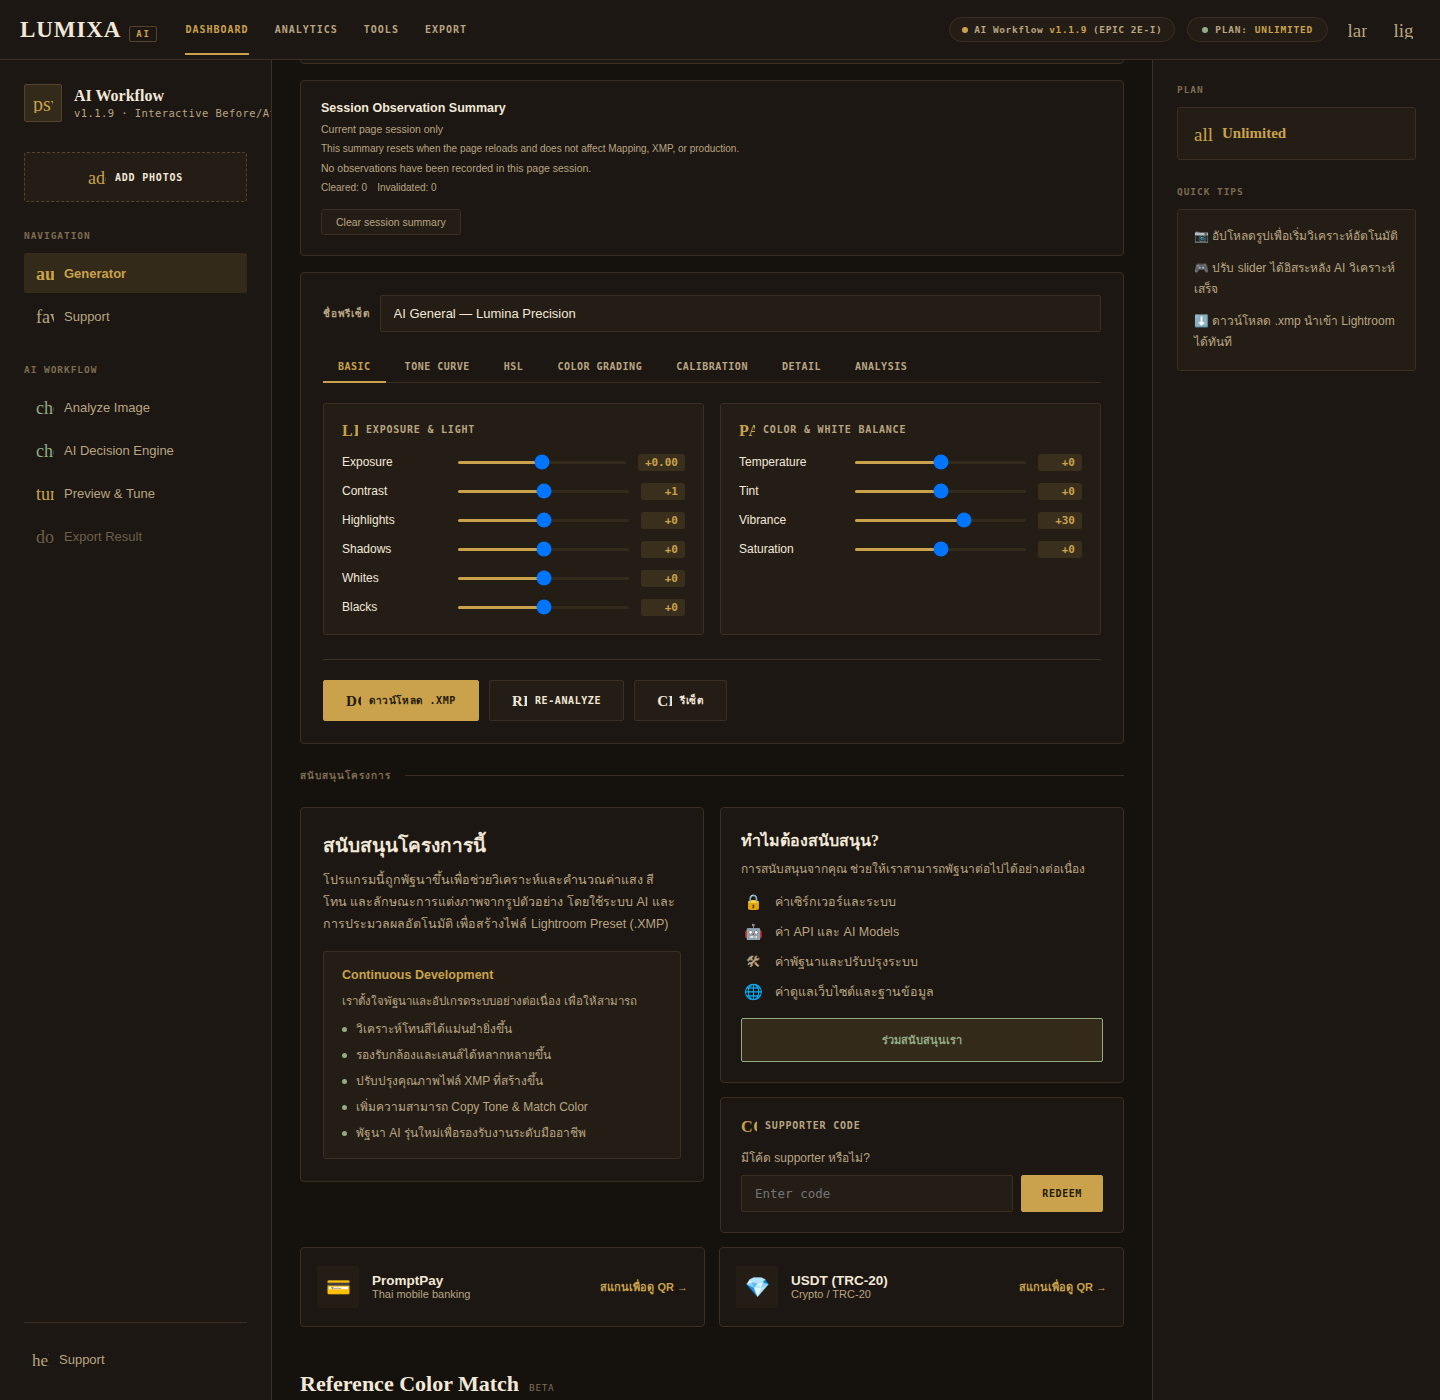
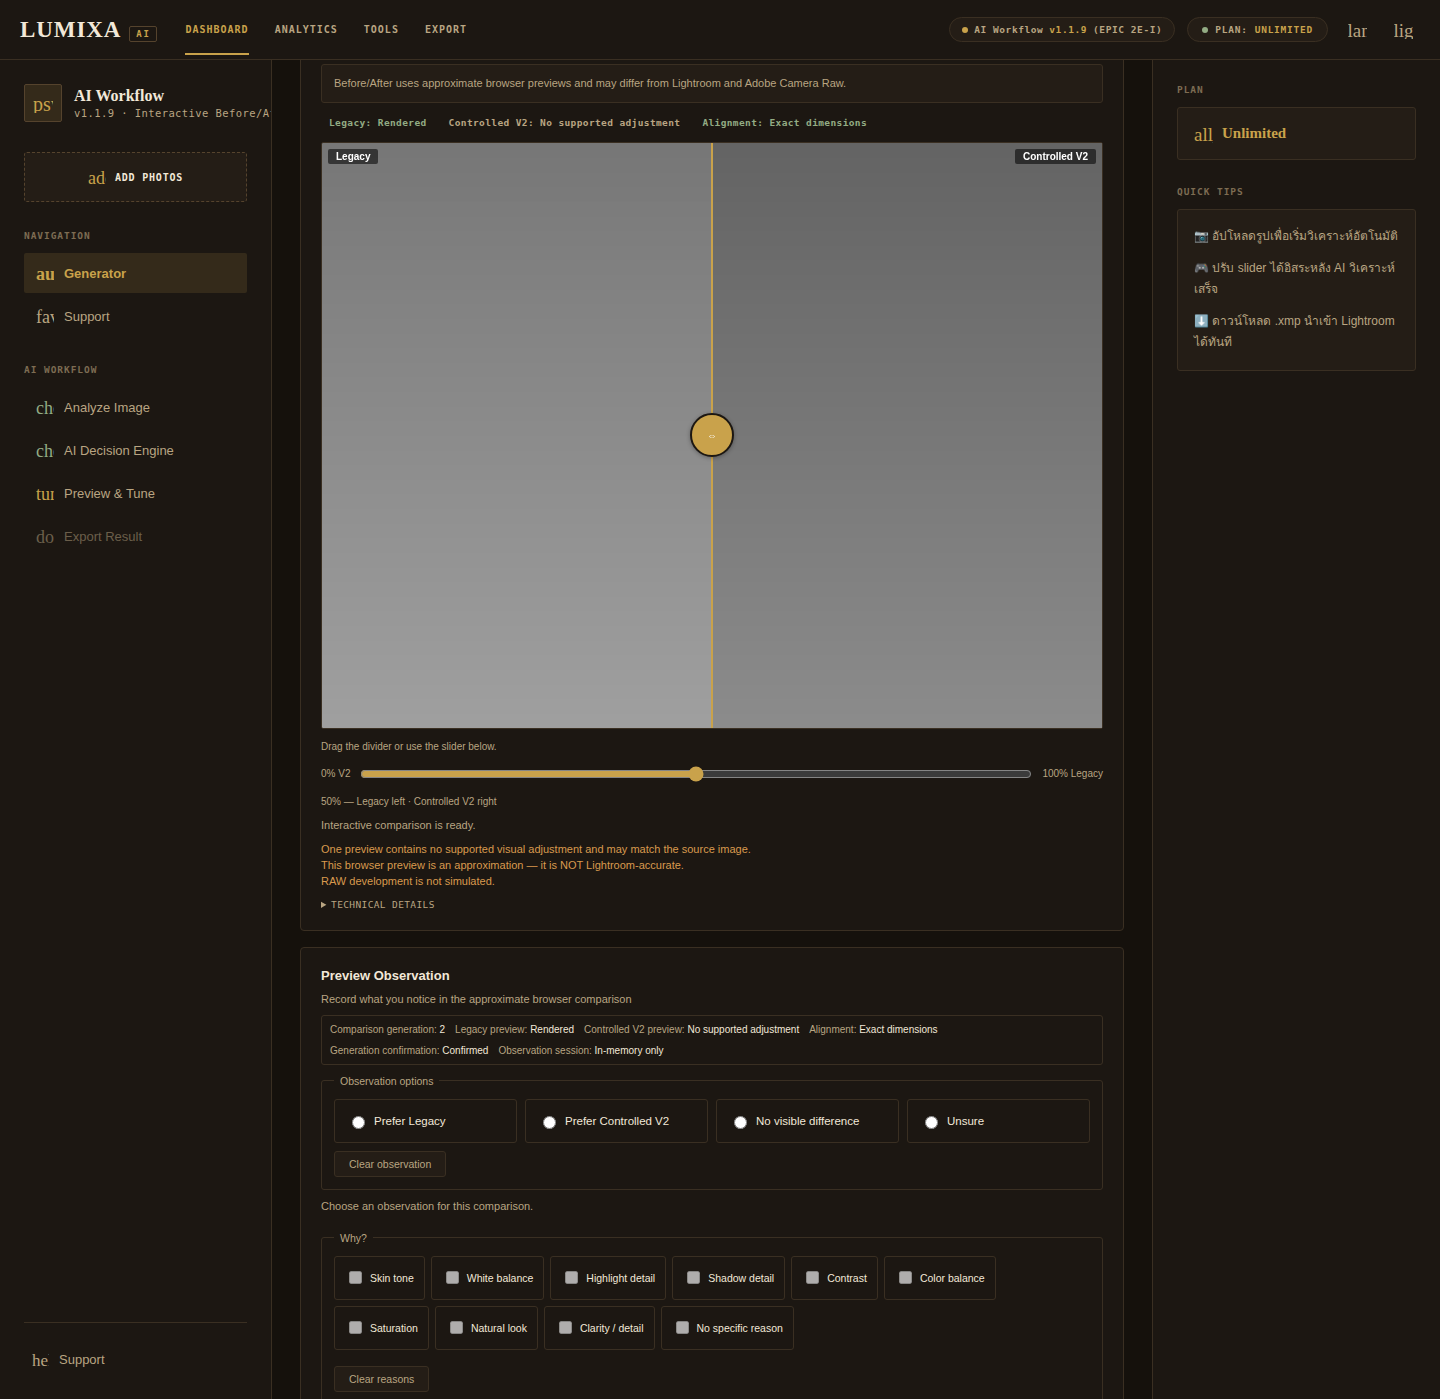
Epic 2e j c f2 step7a f2f

diff --git a/core/decision-engine/index.js b/core/decision-engine/index.js
@@ -175,46 +175,28 @@ export function buildFinalPreset(inputs) {
     fingerprint, decision, stats, basic, wb, hsl, calibration, grading, toneCurves,
   });
 
-  // ── EPIC 2E-J-C-F2 Step 7A-F2: AUTHORITATIVE post-mapping Preview
-  // Sandbox + Review State rebuild ──────────────────────────────────
+  // ── EPIC 2E-J-C-F2 Step 7A-F2 (+ Step 7A-F2-F safety/evidence patch):
+  // AUTHORITATIVE post-mapping Preview Sandbox + Review State rebuild ──
   //
-  // PROVEN ROOT CAUSE: the Preview Sandbox and Review State built
-  // inside `_buildDecision()` above are necessarily PROVISIONAL —
+  // PROVEN ROOT CAUSE (RESOLVED): the Preview Sandbox and Review State
+  // built inside `_buildDecision()` above are necessarily PROVISIONAL —
   // `mapped` (the real, concrete Production Legacy preset) does not
   // exist yet at that point, so those provisional objects only ever
   // receive `legacyStyleBudget` (never `legacyPreset`), yielding
   // `legacyAvailabilityFactor: 0.5` ("partial") instead of `1.0`
-  // ("full") in the Sandbox's own confidence/safety formulas — costing
-  // ~0.15 confidence and ~0.05 safety, live-verified across all four
-  // Step 7A-F1 fixtures. This block corrects that sequencing defect by
-  // rebuilding BOTH objects now that `mapped` genuinely exists, using
-  // the exact same current pipeline evidence, and OVERWRITES
-  // `decision.finalStyleIntent`'s provisional Sandbox/Review-State
-  // with these authoritative ones before Side-by-Side Comparison,
-  // Visual Preview Render Plan, Interactive Before/After, or
-  // Observation ever read them. No downstream preview stage may
-  // consume the provisional (pre-mapping) objects after this point.
+  // ("full") in the Sandbox's own confidence/safety formulas. This
+  // block corrects that sequencing defect by rebuilding BOTH objects
+  // now that `mapped` genuinely exists, using the exact same current
+  // pipeline evidence, and OVERWRITES `decision.finalStyleIntent`'s
+  // provisional Sandbox/Review-State with these authoritative ones
+  // before Side-by-Side Comparison, Visual Preview Render Plan,
+  // Interactive Before/After, or Observation ever read them.
   //
-  // FIX 3: the provisional objects remain briefly reachable via
-  // `_provisionalPreMappingPreviewSandboxV2`/`_provisionalPreMappingReviewStateV2`
-  // for backward-compatible introspection ONLY — never read by any
-  // downstream preview/UI stage in this codebase, and never restoring
-  // stale Review data (the authoritative rebuild re-projects Human
-  // Review from the ORIGINAL caller-supplied `controlledPreviewReviewStateV2`
-  // via the same conservative `_projectHumanReviewStateV2`, never from
-  // the provisional Sandbox's own state, so no lifecycle counter or
-  // Human Review decision is duplicated).
-  //
-  // FIX 4 (safe failure): both authoritative objects are built into
-  // local variables FIRST; if the rebuild throws, Production Mapping
-  // (`mapped`) is completely untouched, `selectedOutputSource` stays
-  // Legacy, Preview correctly stays blocked/unavailable (the
-  // provisional pre-mapping Sandbox — itself always safely
-  // unrenderable/blocked by design — is kept as the fallback), and
-  // only a safe, normalized error string is recorded — never a raw
-  // object or stack trace.
-  decision.finalStyleIntent._provisionalPreMappingPreviewSandboxV2 = decision.finalStyleIntent.controlledOverlayPreviewSandboxV2 ?? null;
-  decision.finalStyleIntent._provisionalPreMappingReviewStateV2 = decision.finalStyleIntent.controlledPreviewReviewStateV2 ?? null;
+  // FIX 1 (Step 7A-F2-F): the provisional Sandbox/Review-State that
+  // `_buildDecision()` already built are simply left as-is on
+  // `finalStyleIntent` unless/until overwritten below — never copied
+  // into any extra local or enumerable field, since nothing in this
+  // codebase reads such a copy and FIX 2 below never falls back to it.
   try {
     const authoritativeHumanReviewState = _projectHumanReviewStateV2(controlledPreviewReviewStateV2);
     const authoritativeSandbox = buildControlledOverlayPreviewSandboxV2({
@@ -250,12 +232,23 @@ export function buildFinalPreset(inputs) {
       captureCapability: decision.finalStyleIntent.captureCapabilityEstimate,
     });
     // Only commit once BOTH rebuilds succeed — overwrite the
-    // provisional objects with the authoritative ones.
+    // provisional objects with the authoritative ones. No provisional
+    // metadata field remains on finalStyleIntent either way.
     decision.finalStyleIntent.controlledOverlayPreviewSandboxV2 = authoritativeSandbox;
     decision.finalStyleIntent.controlledPreviewReviewStateV2 = authoritativeReviewState;
   } catch (e) {
-    decision.finalStyleIntent.authoritativePreviewSandboxError = `Authoritative post-mapping Preview Sandbox rebuild failed safely (production unaffected, provisional pre-mapping Sandbox retained as fallback): ${e.message}`;
-    // Provisional objects (assigned above) remain in place as the safe fallback — never silently promoted to "authoritative".
+    // FIX 2 (Step 7A-F2-F): safe failure must ACTUALLY block Preview —
+    // never silently fall back to the provisional (pre-mapping)
+    // Sandbox, which could in principle still be renderable. On any
+    // rebuild failure, the canonical Sandbox becomes explicitly `null`
+    // (Preview stays unavailable/blocked downstream, by every existing
+    // stage's own null-safe handling), Review State is left as
+    // whatever `_buildDecision()` already produced (never promoted to
+    // "authoritative"), and only a short, safe, normalized error
+    // string is recorded — never a raw object, throwing getter output,
+    // or stack trace.
+    decision.finalStyleIntent.controlledOverlayPreviewSandboxV2 = null;
+    decision.finalStyleIntent.authoritativePreviewSandboxError = _safeNormalizeErrorText(e);
   }
 
   // ── EPIC 2E-G Phase B: Side-by-Side Preview Comparison V2 (integration
@@ -526,6 +519,34 @@ function _classifyReviewItem(status, reviewed, reviewerDecision) {
   // unknown status/malformed fields) is conservatively PENDING — never
   // silently upgraded.
   return 'pending';
+}
+
+/**
+ * FIX 2 (EPIC 2E-J-C-F2 Step 7A-F2-F): safely normalizes an arbitrary,
+ * untrusted `catch` value into a short, safe diagnostic string. Never
+ * throws itself, regardless of what is passed — including a hostile
+ * object with a throwing `.message` getter, a revoked Proxy, `null`/
+ * `undefined`, a bare string or number, or a genuine `Error`. Never
+ * includes a stack trace. Bounded to ~200 characters.
+ */
+function _safeNormalizeErrorText(err) {
+  let text;
+  try {
+    if (err === null || err === undefined) text = 'Unknown error (no error value provided).';
+    else if (typeof err === 'string') text = err;
+    else if (typeof err === 'number' || typeof err === 'boolean') text = String(err);
+    else if (err instanceof Error) text = typeof err.message === 'string' ? err.message : 'Error object with no readable message.';
+    else if (typeof err === 'object') {
+      try { text = typeof err.message === 'string' ? err.message : 'Non-Error object thrown; no readable message.'; }
+      catch { text = 'Non-Error object thrown; message property could not be safely read.'; }
+    } else {
+      text = 'Unrecognized error value.';
+    }
+  } catch {
+    text = 'Error value could not be safely normalized.';
+  }
+  if (typeof text !== 'string') text = 'Error value could not be safely normalized.';
+  return text.length > 200 ? `${text.slice(0, 200)}…` : text;
 }
 
 function _projectHumanReviewStateV2(existingReviewState) {
@@ -2807,4 +2828,4 @@ function _buildDebugTrace({ decision, fingerprint, mapped, stats, wb, cast }) {
 // Exported for the EPIC 2E-J-C-F2 Step 3 focused smoke test only — the
 // main production path (buildFinalPreset) still uses this internally
 // via the same reference; exporting it does not change any behavior.
-export { _projectHumanReviewStateV2 };
+export { _projectHumanReviewStateV2, _safeNormalizeErrorText };